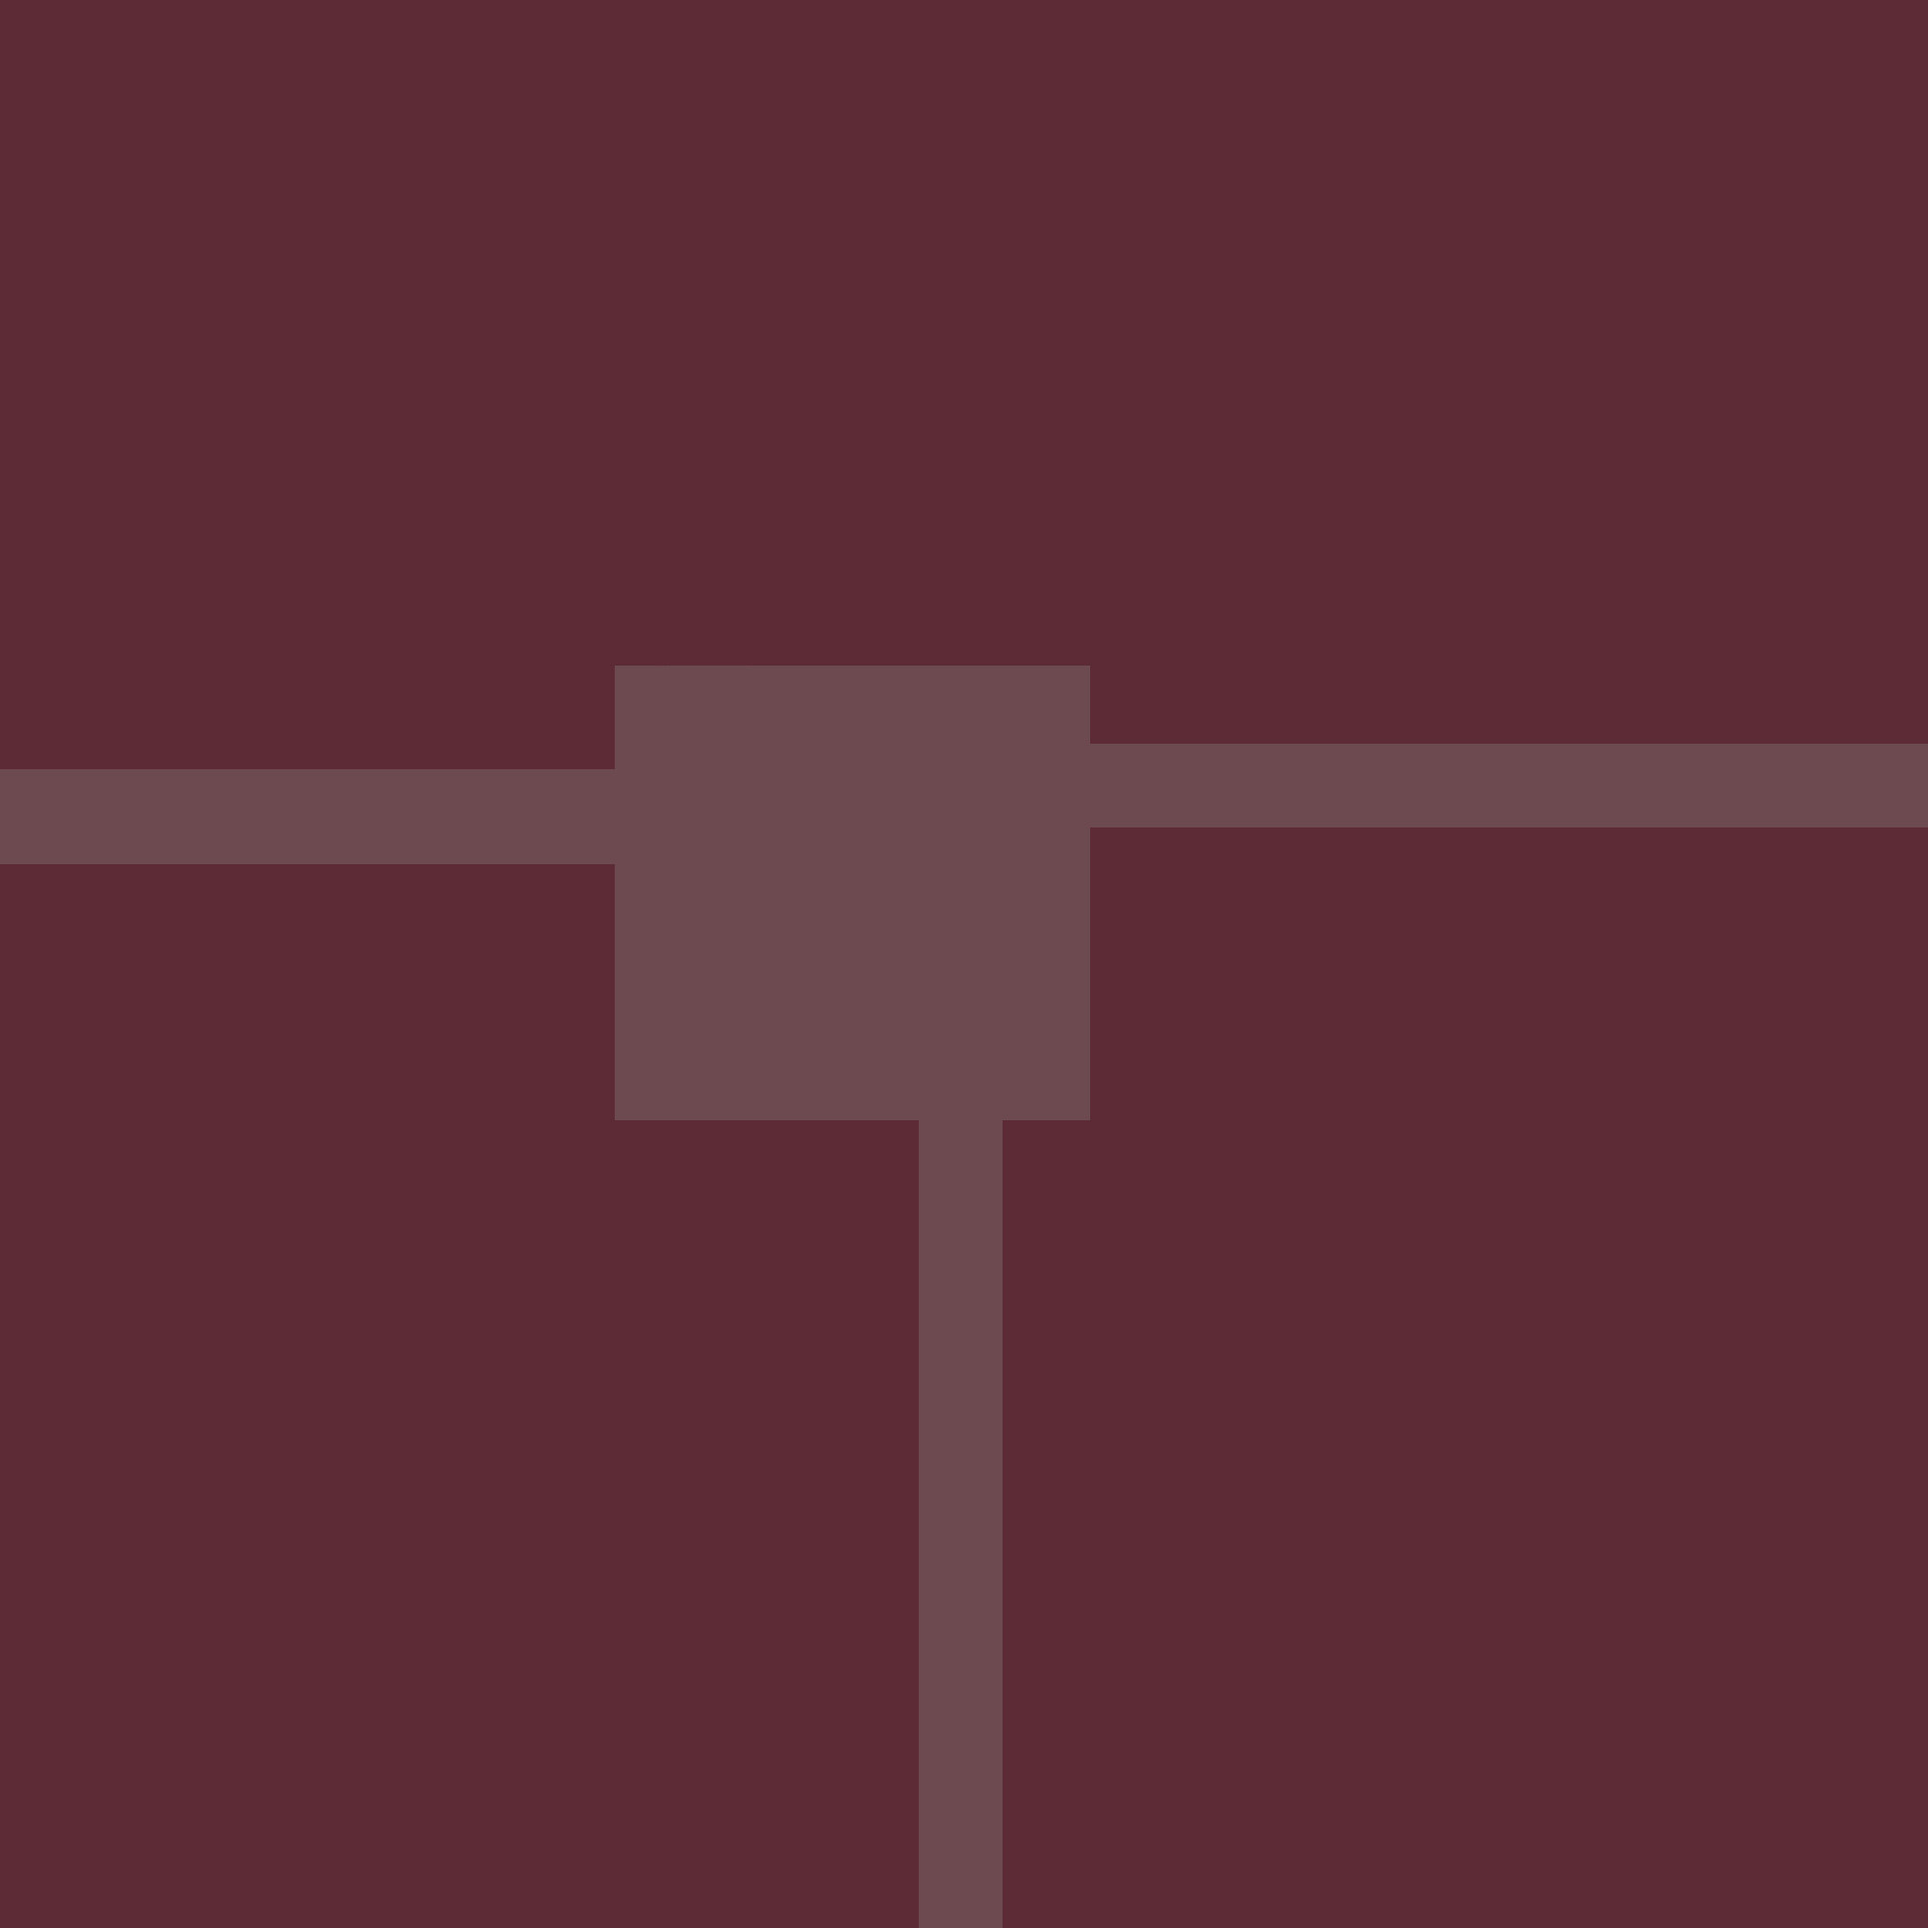
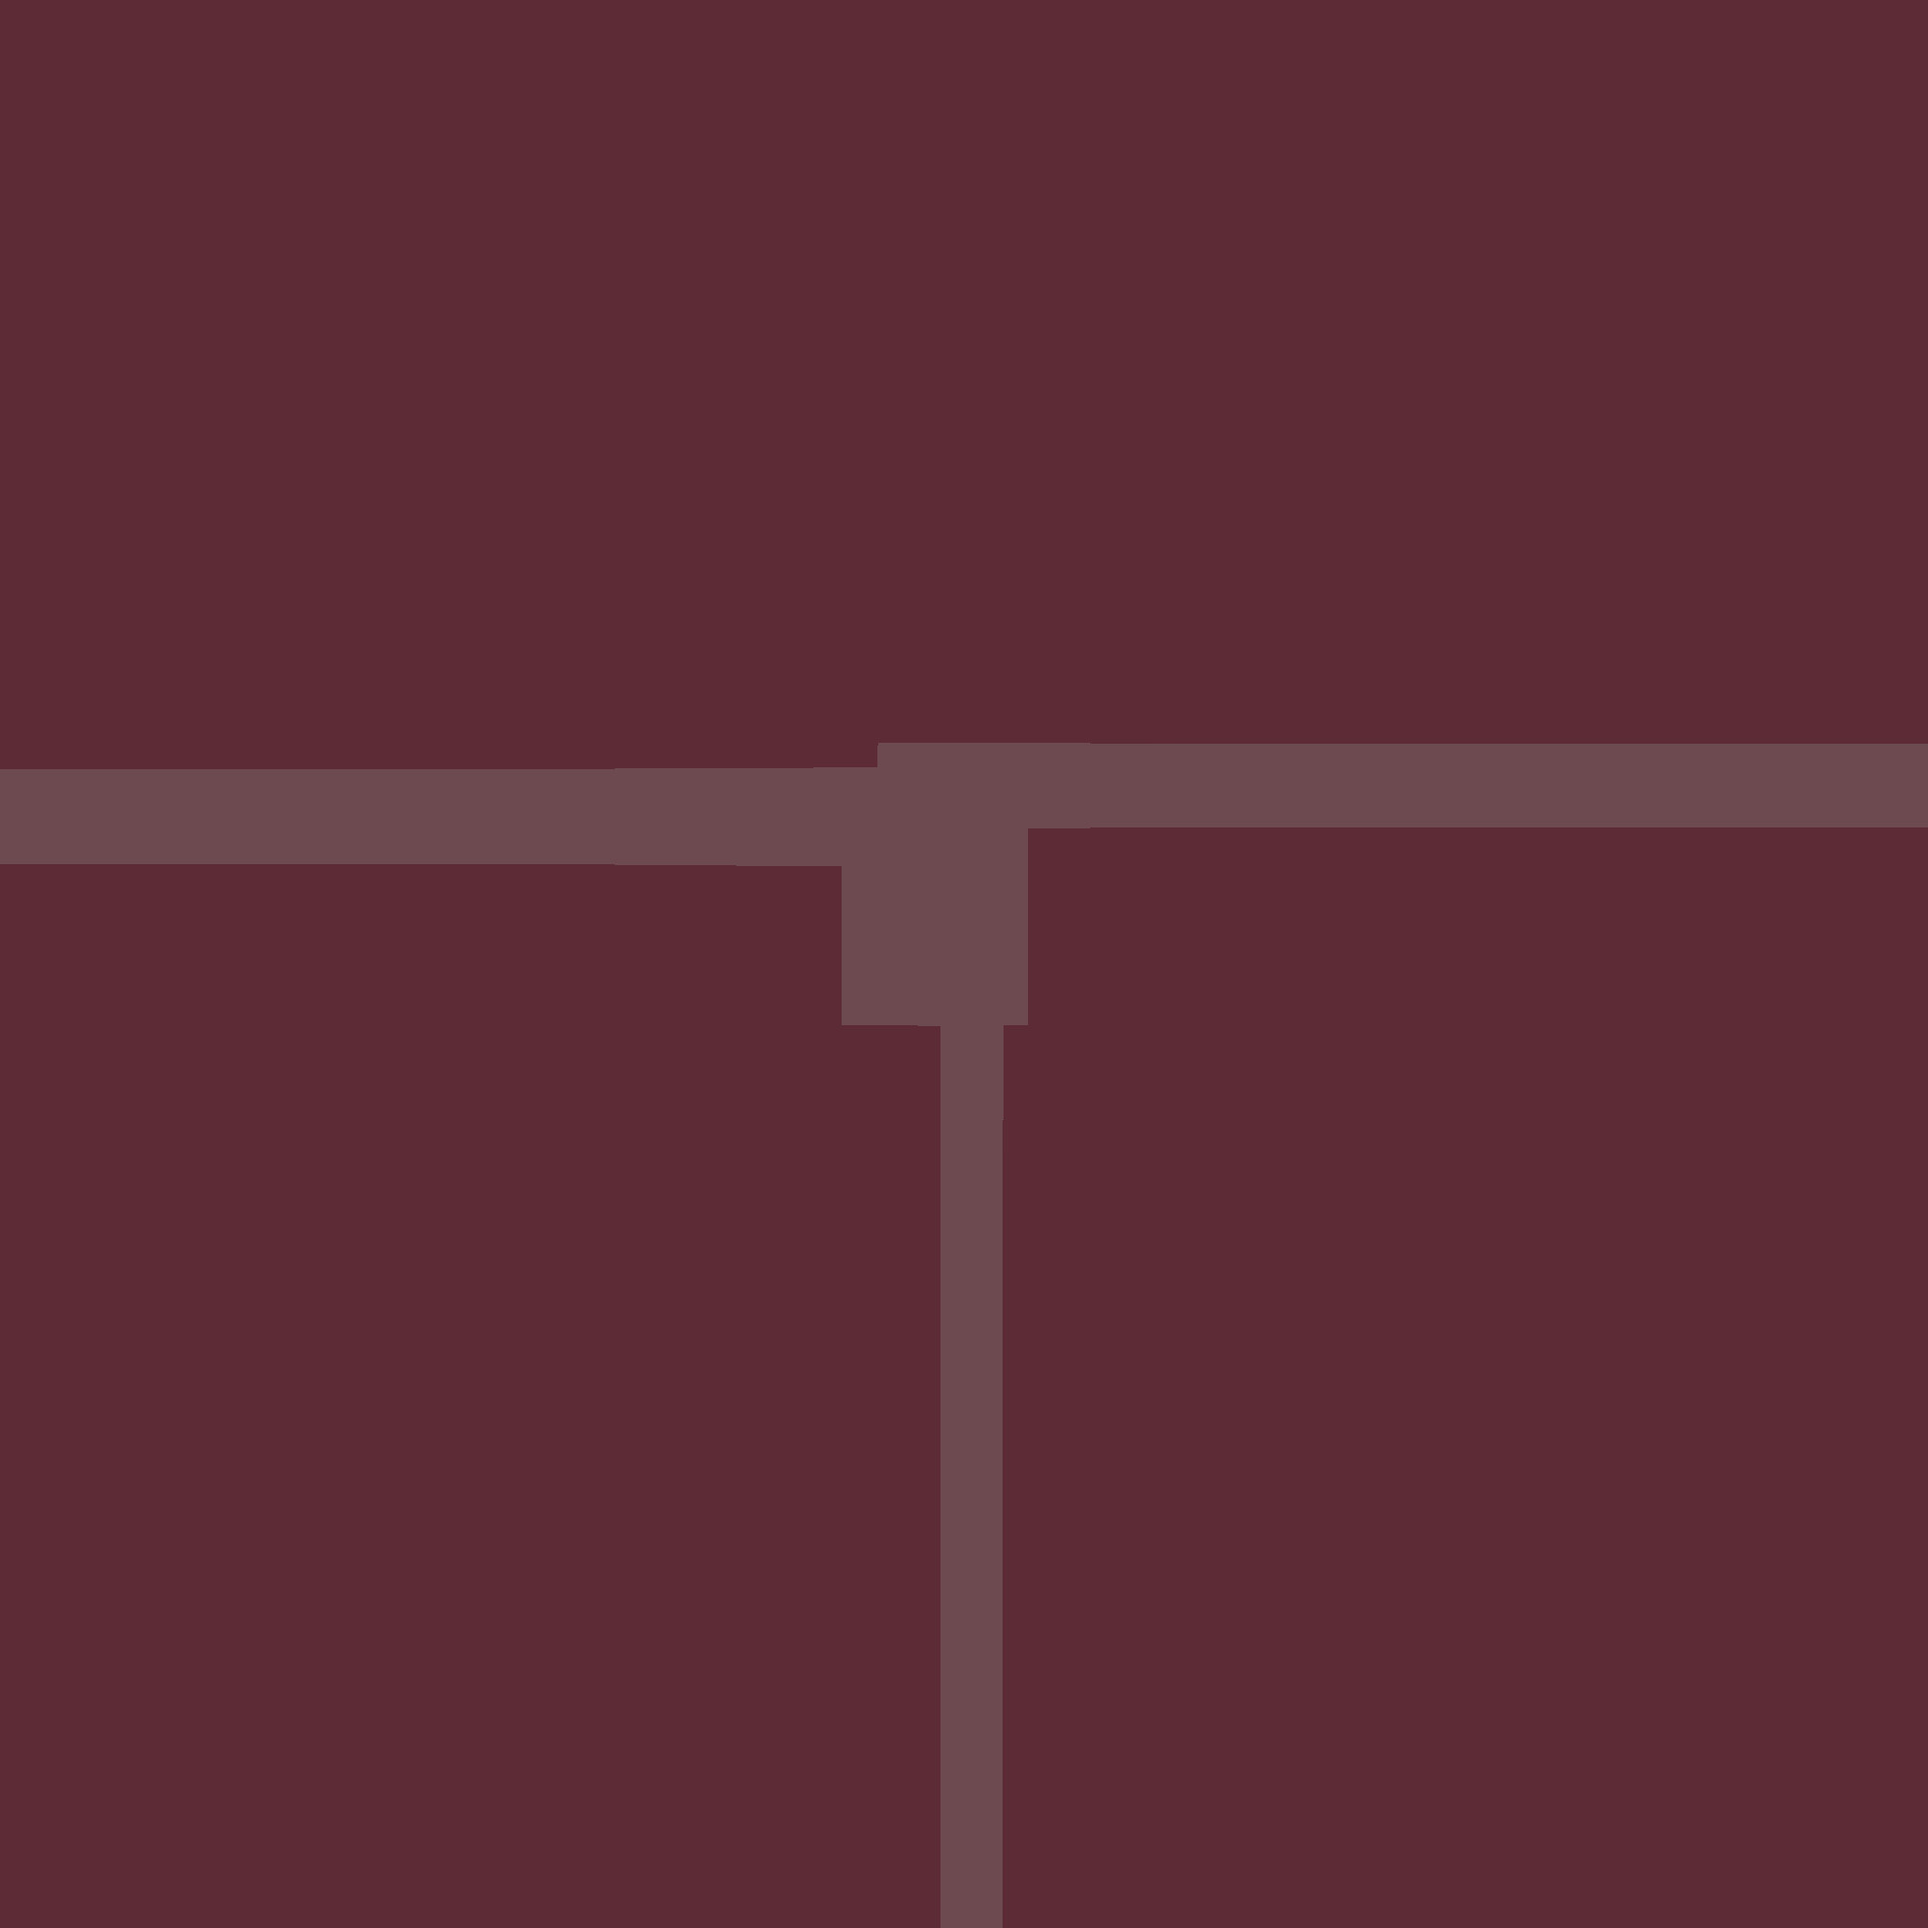
Change size of floor and new floor texture plus rendering optimizations

Changed region(s): [[0.3125, 0.3438, 0.5625, 1.0]]

diff --git a/js/earth.js b/js/earth.js
@@ -3,8 +3,8 @@ var height = window.innerHeight;
 
 var raycaster = new THREE.Raycaster();
 var mouse = new THREE.Vector2();
-var renderer = new THREE.WebGLRenderer();
-var camera = new THREE.PerspectiveCamera(30, width / height, 1, 1000);
+var renderer = new THREE.WebGLRenderer({ antialias: true });
+var camera = new THREE.PerspectiveCamera(50, width / height, 1, 500);
 var editObject;
 var textSettings = {
     size: 1,
@@ -24,9 +24,7 @@ $(function () {
     var radius = 90;
     var segments = 32;
 
-    camera.position.x = -30;
-    camera.position.y = 30;
-    camera.position.z = -30;
+    camera.position.set(40, 0, 40);
 
     renderer.setSize(width, height);
 
@@ -65,6 +63,11 @@ $(function () {
 
     render();
 
+    setTimeout(
+        function(){$('#splashBegin').css('visibility', 'initial');},
+        1000
+    );
+
     // end init
 
     // define functions below
@@ -76,30 +79,21 @@ $(function () {
     }
 
     function createGround() {
-        var texture = new THREE.TextureLoader().load('images/floor.jpg');
+        var texture = new THREE.TextureLoader().load('images/floor.png');
         texture.wrapS = THREE.RepeatWrapping;
         texture.wrapT = THREE.RepeatWrapping;
 
-        var groundGeo = new THREE.PlaneGeometry(100, 100, segments, segments);
+        var groundGeo = new THREE.PlaneGeometry(600, 600, segments, segments);
         var groundMat = new THREE.MeshPhongMaterial({ map:texture });
 
         var ground = new THREE.Mesh(groundGeo,groundMat);
+        ground.position.z = -3;
         ground.position.y = -3;
+
         ground.rotation.x = -Math.PI/2;
-        ground.doubleSided = true;
         ground.receiveShadow = true;
 
         return ground;
-    }
-
-    function createSky(radius, segments) {
-        return new THREE.Mesh(
-            new THREE.SphereGeometry(radius, segments, segments),
-            new THREE.MeshBasicMaterial({
-                map: new THREE.TextureLoader().load('images/skybox1.png'),
-                side: THREE.BackSide
-            })
-        );
     }
 
     function createDirLight() {
@@ -118,6 +112,13 @@ $(function () {
         dirLight.shadow.camera.top = d;
 
         dirLight.shadow.camera.far = 1000;
+
+        dirLight.shadowCameraFov = 45;
+        dirLight.shadowBias = 0.0001;
+        dirLight.shadowDarkness = 0.6;
+        dirLight.shadowMapWidth = 2048;
+        dirLight.shadowMapHeight = 2048;
+
 
         return dirLight;
     }

diff --git a/js/OrbitControls.example.js b/js/OrbitControls.example.js
@@ -31,8 +31,8 @@ THREE.OrbitControls = function ( object, domElement ) {
 	this.minPolarAngle = - Math.PI/2; // radians
 	this.maxPolarAngle = Math.PI/2 - 0.6; // radians
 
-	this.minDistance = 20;
-	this.maxDistance = 70;
+	this.minDistance = 40;
+	this.maxDistance = 90;
 
 	// 65 /*A*/, 83 /*S*/, 68 /*D*/
 	this.keys = { LEFT: 37, UP: 38, RIGHT: 39, BOTTOM: 40, ROTATE: 65, ZOOM: 83, PAN: 68 };

diff --git a/index.html b/index.html
@@ -16,7 +16,7 @@
       <div id="splash">
         <u>ACTIVITY</u>
         <h4>Mixed Use and Neighborhood Externalities</h4>
-        <button id="splashBegin">BEGIN</button>
+        <button id="splashBegin" style="visibility: hidden;">BEGIN</button>
       </div>
       <div id="firstExercise">
         <h1>
